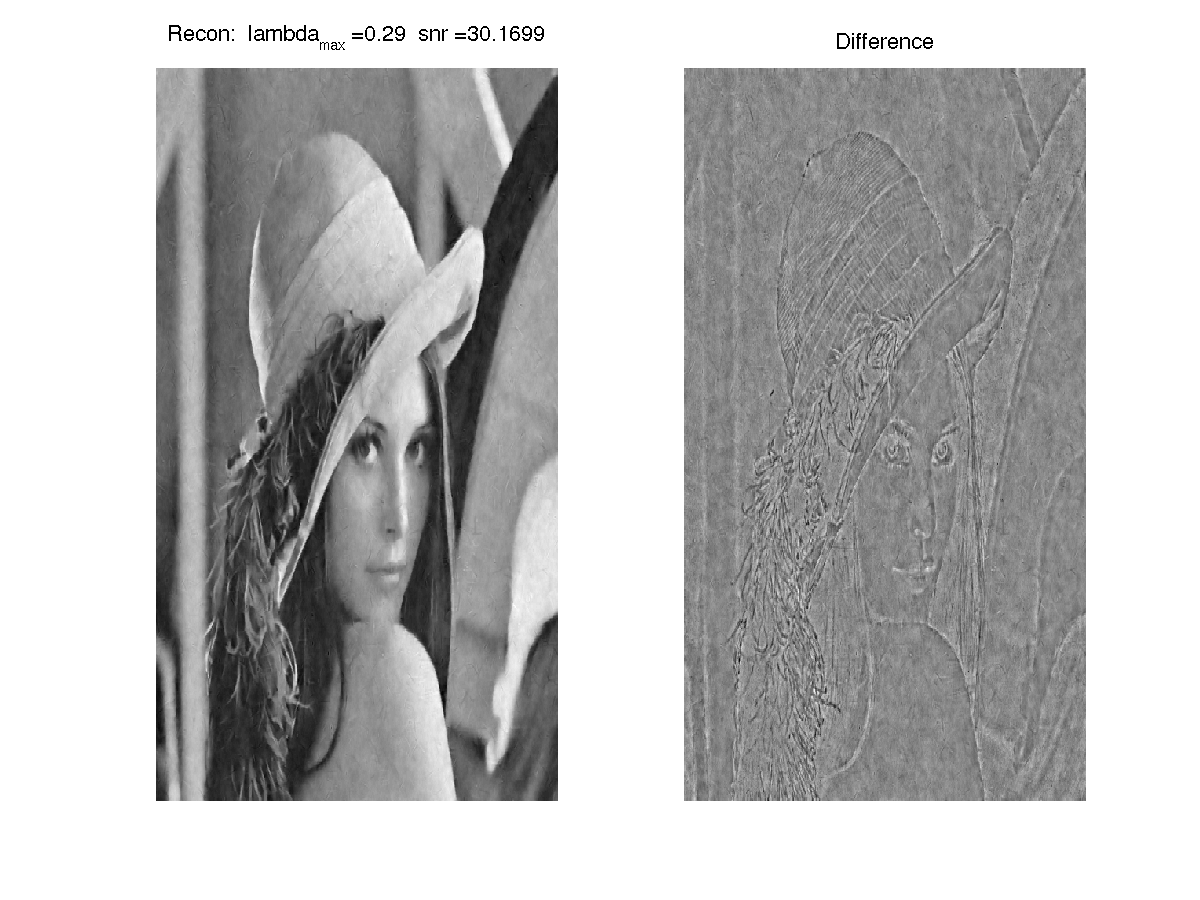
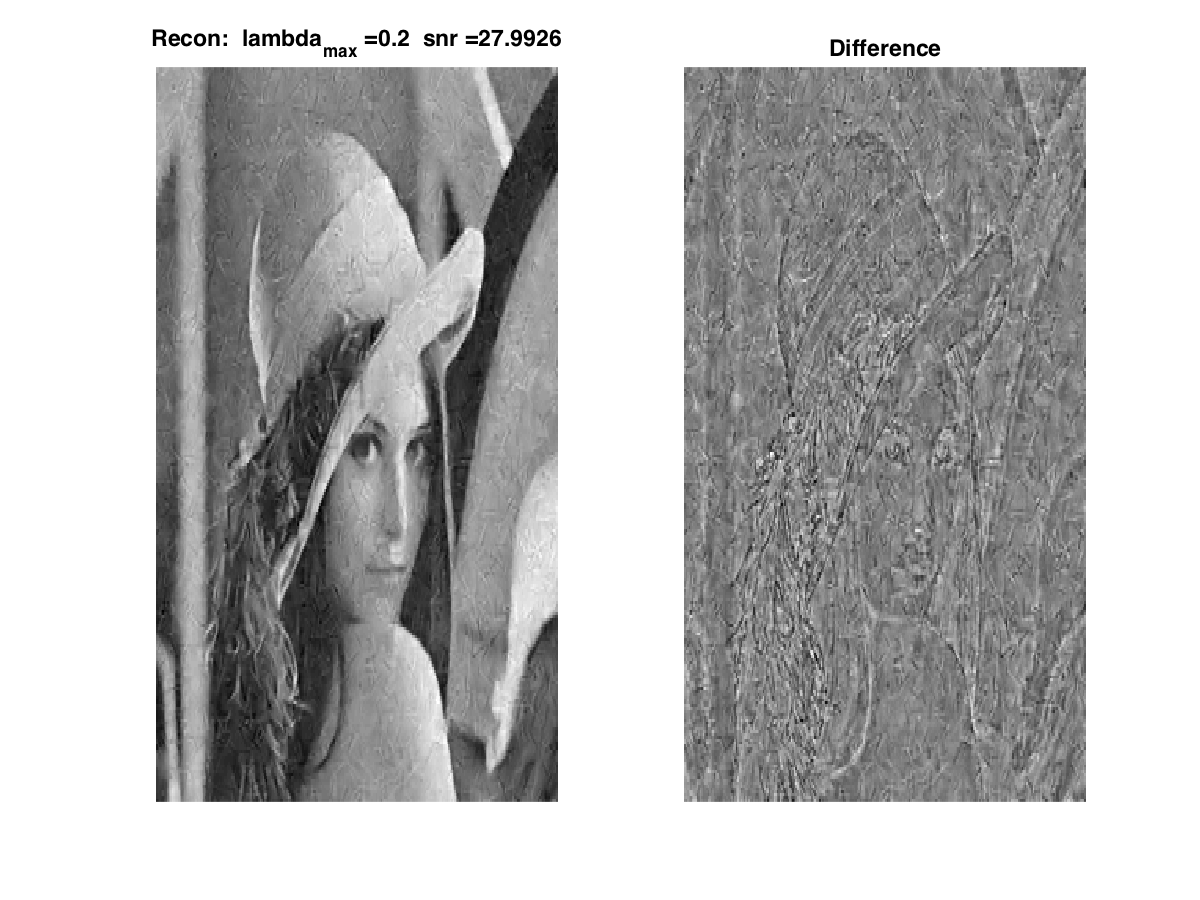
Wednesday

diff --git a/Denoising/mu_search_nofilter.m b/Denoising/mu_search_nofilter.m
@@ -7,10 +7,12 @@ dmap = containers.Map(ConvDict.Label, ConvDict.Dict);
 D = dmap('8x8x32');
 num_dict = size(D,3);
 
+tag = 'gauss' ;%pointsource
+
 
 %resize
 fsz = size(D,1);
-gsz = 30;
+gsz = 40;
 npad = gsz - fsz;
 D = padarray(D,[npad,npad],'post');
 
@@ -18,14 +20,14 @@ D = padarray(D,[npad,npad],'post');
 
 
 % %add this gaussian
-% D(:,:,num_dict) = gauss2d(gsz,4);
+D(:,:,num_dict) = gauss2d(gsz,10);
 
 
 % %add point source
-pixsz = 2;
-D_point = ones(pixsz,pixsz);
-D_point = padarray(D_point,[gsz-pixsz,gsz-pixsz],'post');
-D(:,:,num_dict) = D_point;
+% pixsz = 1;
+% D_point = ones(pixsz,pixsz);
+% D_point = padarray(D_point,[gsz-pixsz,gsz-pixsz],'post');
+% D(:,:,num_dict) = D_point;
 
 %normalize
 D(:,:,num_dict) = D(:,:,num_dict)/norm(vec(D(:,:,num_dict)));
@@ -57,13 +59,11 @@ fltlmbd = 5;
 [sl, sh] = lowpass(s, fltlmbd, npd);
 
 
-lambda = .3; % best lambda from parameter search
-mu_all = 1.4;
-w_all = 0.6;
+lambda = .2; % best lambda from parameter search
 
 opt = [];
 opt.Verbose = 1;
-opt.MaxMainIter = 500;
+opt.MaxMainIter = 400;
 opt.rho = 100*lambda + 1;
 opt.RelStopTol = 1e-3;
 opt.AuxVarObj = 0;
@@ -84,8 +84,9 @@ opt.GrdWeight = reshape([zeros(1,num_dict-1),1],1,1,num_dict);
 
 
 
-%  mu_all = [0.3,0.5,1,5];
-%  w_all = [0.7,0.8,0.9,0.95];
+mu_all = 2.0;
+
+w_all =0.009;
 
 
 
@@ -95,6 +96,7 @@ psnr_all_grim = zeros(length(mu_all),length(w_all));
 psnr_all_grcoef = zeros(length(mu_all),length(w_all));
 X_max_grim = [];
 mu_max_grim = 0;
+w_max_grim = 0;
 mu_max_grcoef = 0;
 psnr_max_grim = 0;
 psnr_max_grcoef = 0;
@@ -141,7 +143,8 @@ for iter = 1:length(mu_all)
         
         if(psnr_all_grim(iter,iter2)> psnr_max_grim)
             psnr_max_grim = psnr_all_grim(iter,iter2);
-            mu_max_grim = mu_all(iter,iter2);
+            mu_max_grim = mu_all(iter);
+            w_max_grim = w_all(iter2);
             X_max_grim = X_grim;
         end
         figure;
@@ -154,14 +157,14 @@ for iter = 1:length(mu_all)
         subplot(1,3,3);
         imagesc(DX_grim); colormap (gray); axis off;
         title(strcat('GrimRec: mu = ',num2str(mu),' w = ',num2str(w),'  psnr = ',num2str(psnr_all_grim(iter,iter2)) ));
-        saveas(gcf,strcat(sporco_path,'/Results/Denoising/grim_',num2str(iter),num2str(iter2),imagename),'png');
+        saveas(gcf,strcat(sporco_path,'/Results/Denoising/grim_',num2str(iter),num2str(iter2),imagename,tag),'png');
         %
     end
 end
 
 %save the info for the max point
 save(strcat(sporco_path,'/Results/Denoising/Raw/mu_search_nofilter_',...
-    imagename,'.mat'),'X_max_grim','psnr_all_grim','psnr_max_grim',...
+    imagename,tag,'.mat'),'X_max_grim','psnr_all_grim','psnr_max_grim',...
     'snr_all_grim'...
     ,'mu_all','mu_max_grim','lambda');
 % save(strcat(sporco_path,'/Results/Denoising/Raw/mu_search_nofilter_',...
@@ -182,7 +185,7 @@ title(strcat('Recon:  mugrim = ',num2str(mu_max_grim),'  psnr = ',num2str(psnr_m
 subplot(1,2,2);
 imagesc(diff_max_grim); colormap (gray); axis off;
 title('Difference');
-saveas(gcf,strcat(sporco_path,'/Results/Denoising/best_mu_search_grim_',imagename),'png');
+saveas(gcf,strcat(sporco_path,'/Results/Denoising/best_mu_search_grim_',imagename,tag),'png');
 
 % %plot and save the best reconstruction(grcoef)
 % DX_max_grcoef = scnv(D,X_max_grcoef);

diff --git a/Denoising/lambda_search_filter.m b/Denoising/lambda_search_filter.m
@@ -4,13 +4,14 @@
 % Load a standard dictionary
 load([sporco_path '/Data/ConvDict.mat']);
 dmap = containers.Map(ConvDict.Label, ConvDict.Dict);
-D = dmap('12x12x36');
+D = dmap('8x8x32');
 num_dict = size(D,3);
 
 imagename = 'lena';
 
 % Load test image
 s = single(rgbtogrey(stdimage(imagename)))/255; %use barbara or lena here
+s = imresize(s, 0.5);
 s_ref = s;
 %add the noise (10 percent peak signal)
 sigma = .1;
@@ -28,7 +29,7 @@ npd = 16;
 fltlmbd = 5;
 [sl, sh] = lowpass(s, fltlmbd, npd);
 
-lambda_all = 0.01:0.02:0.55;
+lambda_all = 0.2;
 snr_all = zeros(size(lambda_all));
 psnr_all = zeros(size(lambda_all));
 X_max = [];
@@ -42,7 +43,7 @@ for iter = 1:length(lambda_all)
 disp(['iter: ',num2str(iter)]);
 lambda = lambda_all(iter);
 opt = [];
-opt.Verbose = 0;
+opt.Verbose = 1;
 opt.MaxMainIter = 400;
 opt.rho = 100*lambda + 1;
 opt.RelStopTol = 1e-3;
@@ -69,14 +70,16 @@ end
 end
 
 %save the info for the max point
-save(strcat(sporco_path,'/Results/Denoising/Raw/lambda_search_filter_',...
-    imagename,'.mat'),'X_max','optinf_max','psnr_all','psnr_max'...
-    ,'lambda_all','lambda_max','snr_all');
+% save(strcat(sporco_path,'/Results/Denoising/Raw/lambda_search_filter_',...
+%     imagename,'.mat'),'X_max','optinf_max','psnr_all','psnr_max'...
+%     ,'lambda_all','lambda_max','snr_all');
 
 %plot and save the best reconstruction
 H_max = scnv(D,X_max);
 DX_max = H_max+sl;
 diff_max = DX_max - s_ref;
+figure;
+imagesc(H_max); colormap(gray);
 
 figure;
 subplot(1,2,1);
